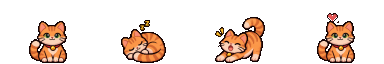
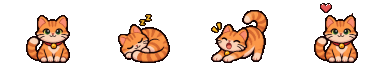
Weng um pouco mais alto, gatas mais nítidas (Zz amarelo, carinho sem mão), rua com copas por cima e canteiros sólidos, cozinha e quarto da Bella com passagens, cena do Alexandre em triângulo, sofá mais baixo, porta-guarda-chuvas em tom natural
Claude-Session: https://claude.ai/code/session_01PDyLU6Huw5amytFREh1vA2

diff --git a/src/regions/piabeta/rua.map.ts b/src/regions/piabeta/rua.map.ts
@@ -269,10 +269,10 @@ const scripts: Record<string, Script> = {
     await ctx.say('bella', 'O carro do vizinho. Sempre estacionado exatamente aqui.');
   },
   async banco(ctx) {
-    await ctx.sit(555, 748, ctx.flag('weng-segue') ? [['weng', 'Um banquinho na pracinha, debaixo de chuva... a gente é meio doido, né?'], ['bella', 'Um pouquinho. Mas tá bom aqui.']] : [['bella', 'Um banquinho na sombra. Bom pra ficar pensando no que falar pra ele.']], { key: 'bench-rua', x: 555, y: 780, w: 144 });
+    await ctx.sit(555, 756, ctx.flag('weng-segue') ? [['weng', 'Um banquinho na pracinha, debaixo de chuva... a gente é meio doido, né?'], ['bella', 'Um pouquinho. Mas tá bom aqui.']] : [['bella', 'Um banquinho na sombra. Bom pra ficar pensando no que falar pra ele.']], { key: 'bench-rua', x: 555, y: 780, w: 144 });
   },
   async banco2(ctx) {
-    await ctx.sit(1063, 748, ctx.flag('weng-segue') ? [['bella', 'Senta aqui um pouquinho comigo.'], ['weng', 'Com você eu sento até na chuva.']] : [['bella', 'Daqui dá pra ver a rua inteira.']], { key: 'bench-rua', x: 1063, y: 780, w: 147 });
+    await ctx.sit(1063, 756, ctx.flag('weng-segue') ? [['bella', 'Senta aqui um pouquinho comigo.'], ['weng', 'Com você eu sento até na chuva.']] : [['bella', 'Daqui dá pra ver a rua inteira.']], { key: 'bench-rua', x: 1063, y: 780, w: 147 });
   },
 };
 
@@ -315,10 +315,13 @@ export const ruaMap: MapDef = {
     R(483, 688, 627, 776),
     R(990, 688, 1137, 776),
     R(927, 697, 973, 765),
-    R(170, 560, 450, 770), // árvore esquerda (copa sólida)
-    R(262, 770, 330, 885), // tronco esquerdo
-    R(1185, 570, 1495, 770), // árvore direita (copa)
-    R(1315, 770, 1372, 885), // tronco direito
+    R(262, 800, 330, 848), // tronco esquerdo (a copa fica por cima, dá pra passar por baixo)
+    R(1315, 800, 1372, 848), // tronco direito
+    // canteiros: sólidos desde as flores do topo (ninguém fica dentro das hortênsias)
+    R(76, 845, 205, 920),
+    R(596, 860, 754, 952),
+    R(880, 882, 1008, 950),
+    R(1424, 862, 1538, 930),
     // canteiros
     ...FLOWER_BEDS,
   ],
@@ -333,10 +336,9 @@ export const ruaMap: MapDef = {
     { x0: 478, y0: 722, x1: 632, y1: 780, base: 776, cut: 'furniture' }, // banco esq. (assento da frente e pés)
     { x0: 985, y0: 722, x1: 1142, y1: 780, base: 776, cut: 'furniture' }, // banco dir. (assento da frente e pés)
     // canteiros da beira da pracinha: as flores ficam na frente dos pés de quem pisa atrás delas
-    { x0: 76, y0: 845, x1: 204, y1: 918, base: 916, cut: 'foliage' },
-    { x0: 596, y0: 860, x1: 754, y1: 952, base: 950, cut: 'foliage' },
-    { x0: 880, y0: 880, x1: 1008, y1: 950, base: 948, cut: 'foliage' },
-    { x0: 1424, y0: 864, x1: 1538, y1: 928, base: 926, cut: 'foliage' },
+    // copas das árvores: na frente de quem passa atrás, translúcidas
+    { x0: 165, y0: 556, x1: 455, y1: 800, base: 848, cut: 'foliage', fade: true },
+    { x0: 1180, y0: 566, x1: 1500, y1: 800, base: 848, cut: 'foliage', fade: true },
   ],
 
   hotspots: [

diff --git a/src/regions/piabeta/casaBella.map.ts b/src/regions/piabeta/casaBella.map.ts
@@ -64,13 +64,13 @@ export const casaBellaMap: MapDef = {
     R(0, 912, 690, 1024),
     R(800, 912, 1536, 1024),
     // Quarto
-    R(40, 230, 258, 466), // cama (com folga dos lados para o cabelo não passar por cima)
+    R(40, 230, 258, 450), // cama (com folga dos lados para o cabelo não passar por cima)
     R(272, 230, 448, 338), // escrivaninha + cadeira
     R(458, 230, 538, 338), // penteadeira + banquinho
     R(538, 230, 640, 322), // espelho + planta
     R(635, 230, 818, 320), // guarda-roupa
     // Cozinha
-    R(1045, 318, 1282, 470), // mesa + cadeiras
+    R(1045, 296, 1282, 470), // mesa + cadeiras (encostada na bancada: ninguém sobe na cadeira de cima)
     R(1408, 300, 1496, 388), // planta
     // Sala
     R(60, 700, 138, 735), // planta (vaso)
@@ -93,6 +93,12 @@ export const casaBellaMap: MapDef = {
   overlays: [
     { x0: 246, y0: 645, x1: 294, y1: 800, base: 882, cut: 'dark' }, // só a tela escura da TV
     { x0: 1360, y0: 660, x1: 1492, y1: 815, base: 808, cut: 'foliage' }, // planta
+    // cozinha: cadeiras dos lados e de baixo, e a planta do canto
+    { x0: 1040, y0: 325, x1: 1290, y1: 475, base: 472, cut: 'furniture', slice: true },
+    { x0: 1400, y0: 235, x1: 1500, y1: 392, base: 390, cut: 'furniture' },
+    // vasos na parede de baixo: na frente de quem passa atrás deles
+    { x0: 130, y0: 878, x1: 226, y1: 1012, base: 1010, cut: 'furniture' },
+    { x0: 1295, y0: 872, x1: 1392, y1: 1006, base: 1004, cut: 'furniture' },
   ],
 
   hotspots: [
@@ -110,7 +116,7 @@ export const casaBellaMap: MapDef = {
     // Cozinha
     { rect: R(940, 85, 1062, 302), interact: 'geladeira', label: 'Geladeira' },
     { rect: R(1066, 160, 1160, 302), interact: 'fogao', label: 'Fogão' },
-    { rect: R(1160, 140, 1350, 302), interact: 'pia', label: 'Pia' },
+    { rect: R(1160, 140, 1400, 330), interact: 'pia', label: 'Pia' },
     // Sala
     { rect: R(215, 650, 318, 888), interact: 'tv', label: 'TV' },
     { rect: R(1062, 545, 1290, 758), interact: 'estante', label: 'Estante' },

diff --git a/src/regions/piabeta/casaBella.scripts.ts b/src/regions/piabeta/casaBella.scripts.ts
@@ -255,9 +255,13 @@ export const casaScripts: Record<string, Script> = {
     if (!ctx.objectiveDone(Q, 'pai')) {
       await ctx.fadeOut(200);
       ctx.follow('weng', false);
-      ctx.place('player', 18.8, 8.3, 'right');
-      ctx.place('pai-bella', 21.0, 8.3, 'left');
-      ctx.place('weng', 19.9, 10.1, 'up');
+      // triângulo ao lado da mesa (ninguém em cima de cadeira): o Alexandre na quina da mesa,
+      // a Bella e o Weng na frente dele, à mesma distância
+      ctx.place('pai-bella', 19.9, 7.0, 'down');
+      ctx.place('player', 18.8, 8.7, 'up');
+      ctx.place('weng', 21.0, 8.7, 'up');
+      ctx.face('player', 'pai-bella');
+      ctx.face('weng', 'pai-bella');
       await ctx.fadeIn(250);
       await ctx.say('bella', `${CHAMADO ? `${CHAMADO}, esse` : 'Esse'} é o Weng.`);
       ctx.face('weng', 'up');
@@ -293,7 +297,7 @@ export const casaScripts: Record<string, Script> = {
       await ctx.say('bella', 'Ainda não dá pra sentar. Falta apresentar o Weng pro Alexandre!');
       return;
     }
-    await ctx.sit(730, 700, ctx.flag('weng-segue') ? [['weng', 'Esse sofá é confortável demais. Perigoso.'], ['bella', 'É o sofá do cochilo de domingo.']] : [['bella', 'O sofá do cochilo de domingo. Hoje não tem cochilo, tem encontro!']]);
+    await ctx.sit(730, 714, ctx.flag('weng-segue') ? [['weng', 'Esse sofá é confortável demais. Perigoso.'], ['bella', 'É o sofá do cochilo de domingo.']] : [['bella', 'O sofá do cochilo de domingo. Hoje não tem cochilo, tem encontro!']]);
   },
   async geladeira(ctx) {
     await ctx.say('bella', 'Água gelada pra acalmar. Ok, não acalmou.');
